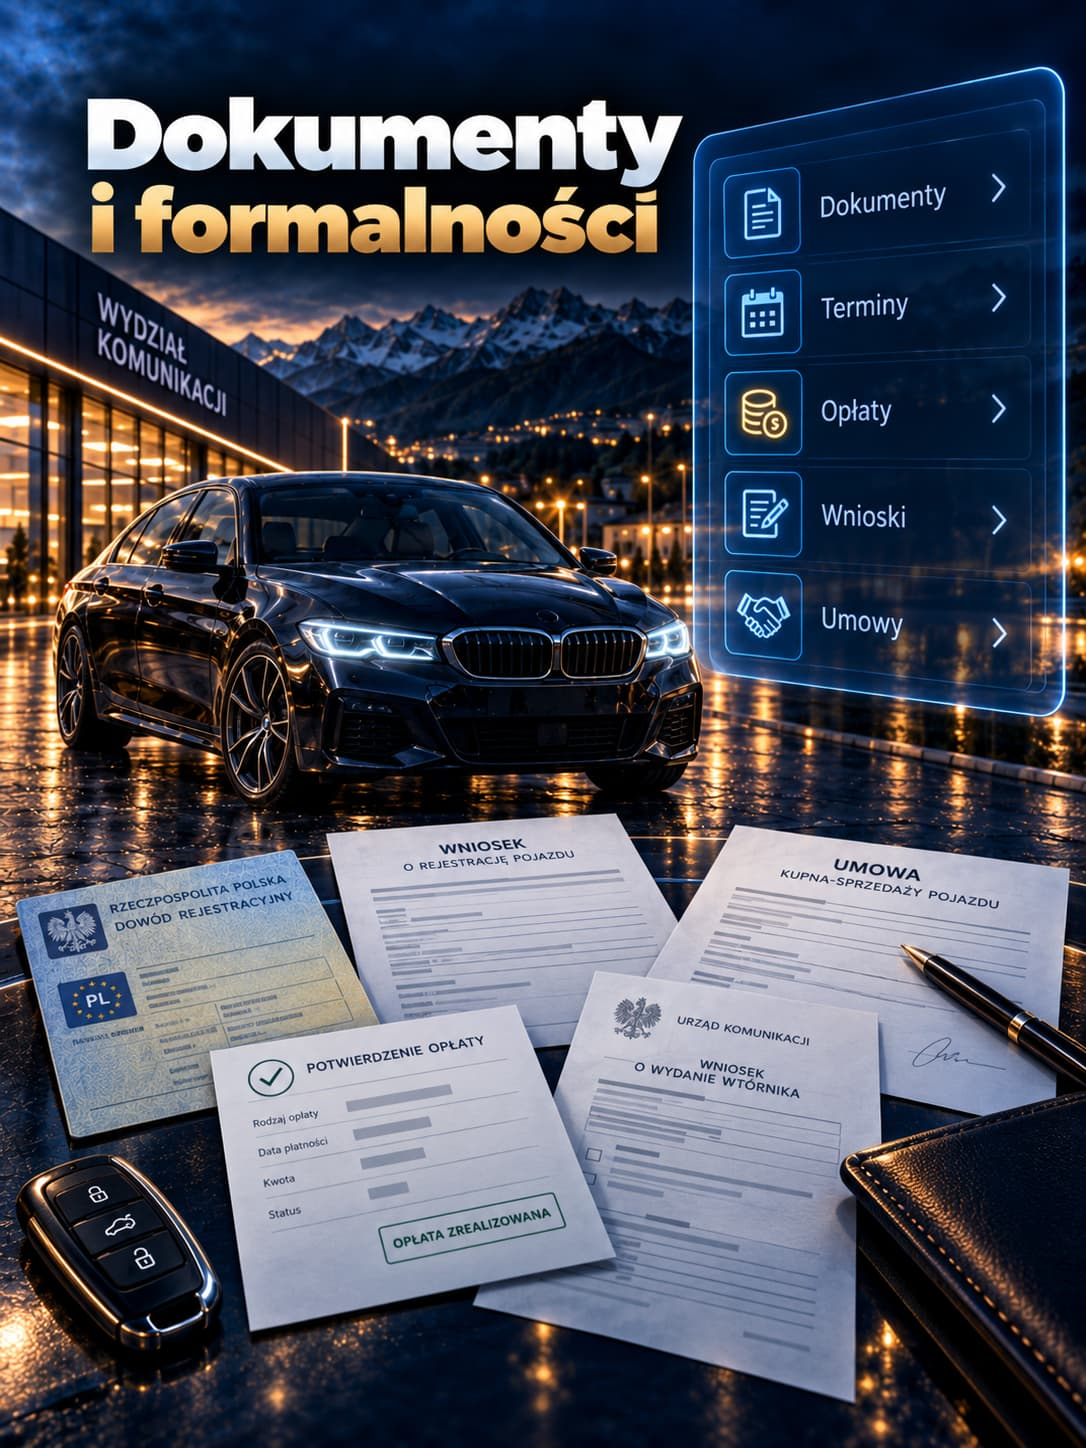
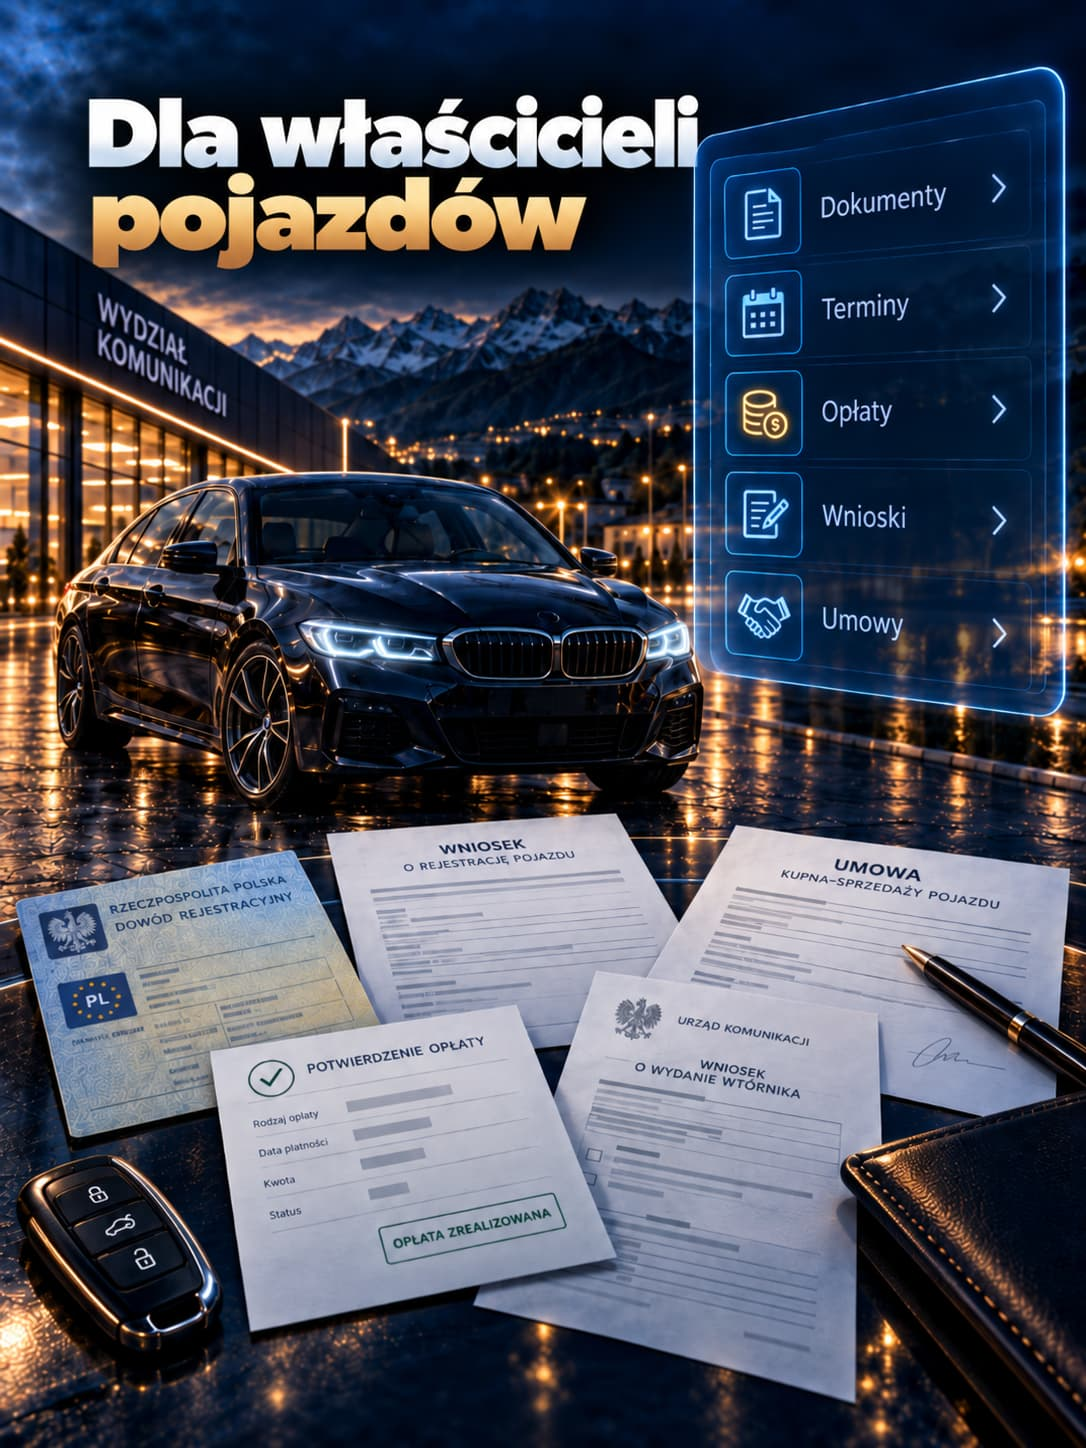
19.09.2026

diff --git a/src/pages/HomePage/HomePage.tsx b/src/pages/HomePage/HomePage.tsx
@@ -21,13 +21,7 @@ function HomePage() {
       <section className={styles.homePageMainContainer}>
         <h1 className={styles.headerH1}>Rejestracja pojazdów krok po kroku</h1>
         <div className={styles.homeLinksContainer}>
-          <Link
-            to="dla-wlascicieli"
-            data-tooltip-id="app-tooltip"
-            data-tooltip-content={vehicleOwnersTooltip}
-            data-tooltip-variant="info"
-            className={styles.homeLink}
-          >
+          <Link to="dla-wlascicieli" className={styles.homeLink}>
             <img
               src={VehicleOwnersImg}
               alt={vehicleOwnersTooltip}
@@ -37,13 +31,7 @@ function HomePage() {
             />
           </Link>
 
-          <Link
-            to="dla-pracownikow"
-            data-tooltip-id="app-tooltip"
-            data-tooltip-content={employeesTooltip}
-            data-tooltip-variant="info"
-            className={styles.homeLink}
-          >
+          <Link to="dla-pracownikow" className={styles.homeLink}>
             <img
               src={EmployeesImg}
               alt={employeesTooltip}
@@ -53,13 +41,7 @@ function HomePage() {
             />
           </Link>
 
-          <Link
-            to="kalkulator"
-            data-tooltip-id="app-tooltip"
-            data-tooltip-content={calculatorTooltip}
-            data-tooltip-variant="info"
-            className={styles.homeLink}
-          >
+          <Link to="kalkulator" className={styles.homeLink}>
             <img
               src={CalculatorImg}
               alt={calculatorTooltip}
